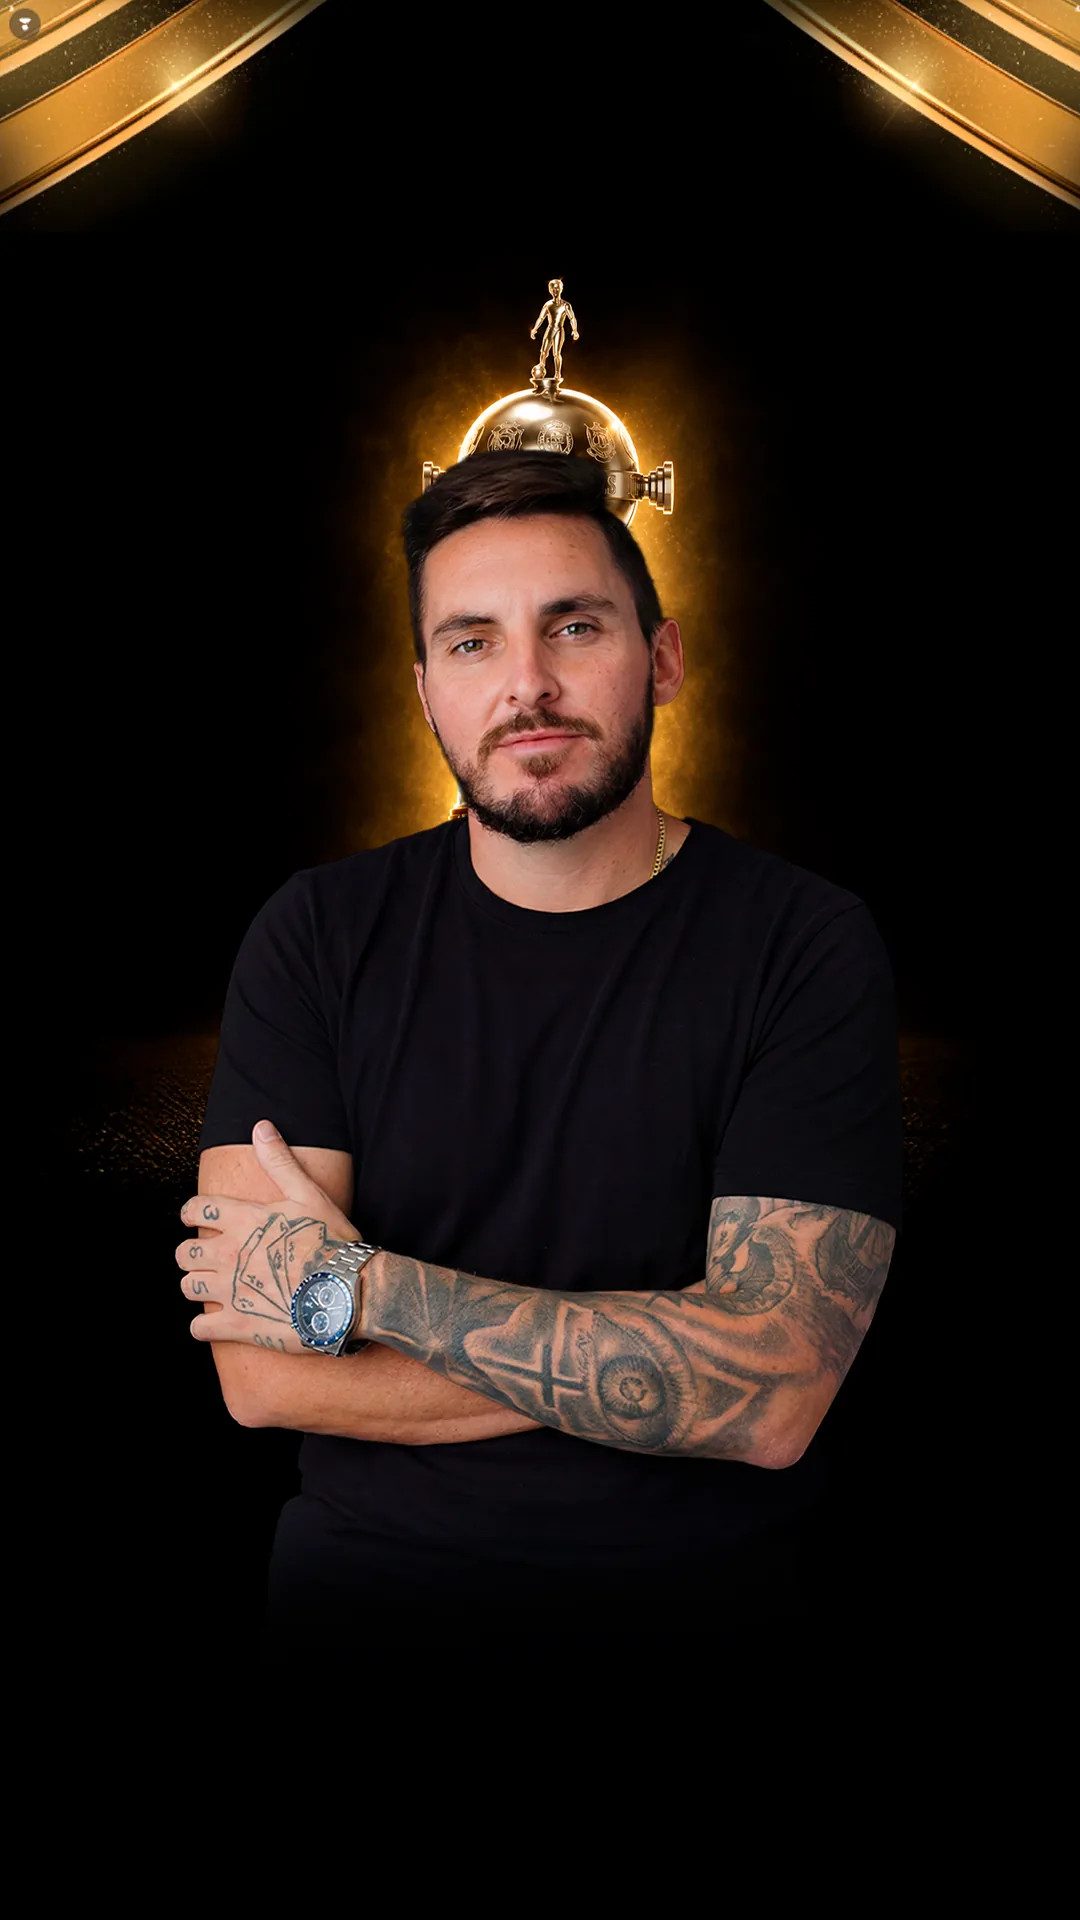
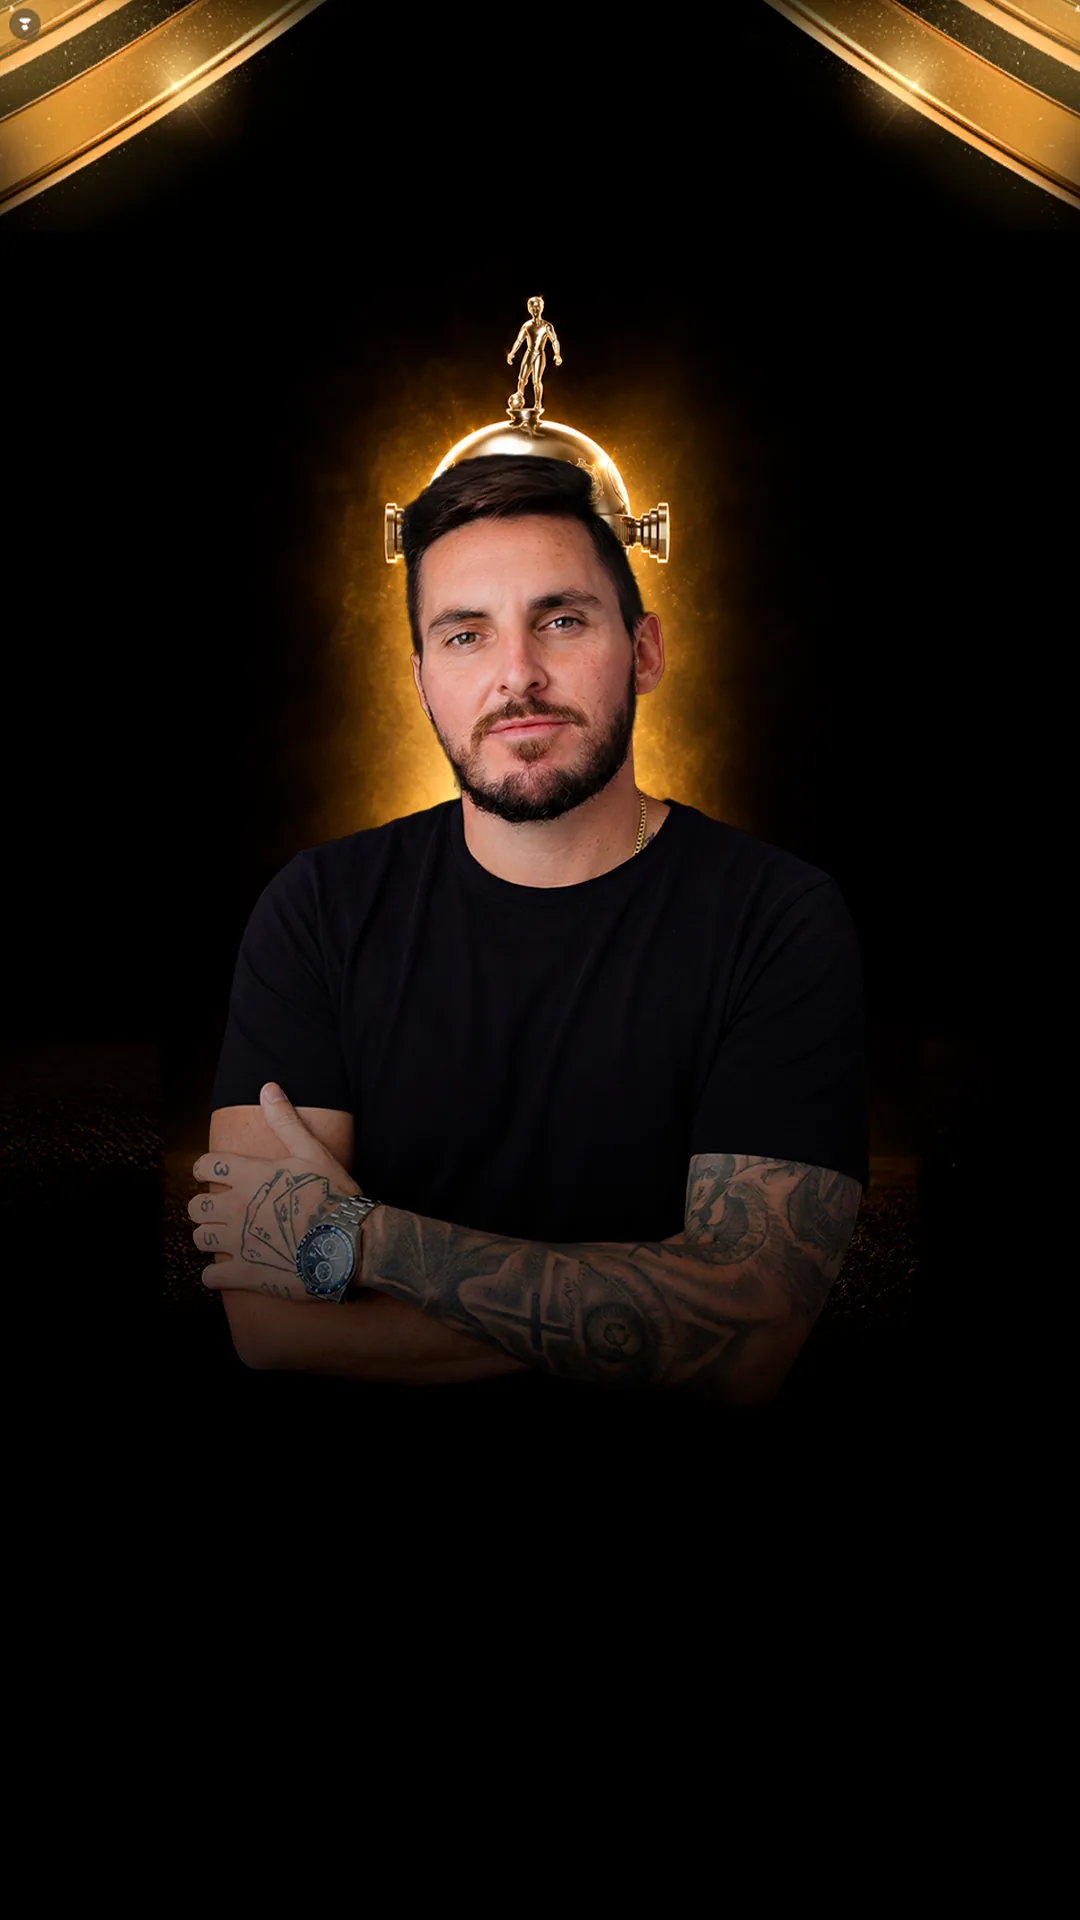
Hero nova: label no topo, headline na base, CTA maior, nome volta pro início

Changed region(s): [[0.1528, 0.5312, 0.825, 0.7812], [0.275, 0.125, 0.6722, 0.5], [0.2444, 0.4375, 0.275, 0.4688]]

diff --git a/app/page.js b/app/page.js
@@ -123,10 +123,16 @@ function Marquee() {
   );
 }
 
-function Header({ right }) {
+function Header({ right, onHome }) {
   return (
     <header className="header">
-      <span className="brand">{config.marca}</span>
+      {onHome ? (
+        <button className="brand brand-link" onClick={onHome} aria-label="Voltar ao início">
+          {config.marca}
+        </button>
+      ) : (
+        <span className="brand">{config.marca}</span>
+      )}
       <span className="header-right">{right}</span>
     </header>
   );
@@ -174,8 +180,10 @@ function Landing({ onStart }) {
       <Header right={rodada.nome} />
 
       <section className={`hero-img${landing.heroImage ? " com-imagem" : ""}`} style={heroStyle}>
-        <div className="wrap hero-copy">
+        <div className="hero-top">
           <span className="label">{landing.label}</span>
+        </div>
+        <div className="wrap hero-copy">
           <h1>
             <Highlight text={landing.titulo} />
           </h1>
@@ -217,7 +225,7 @@ function Landing({ onStart }) {
 // ============= PALPITES =============
 const AVANCO_MS = 320;
 
-function Palpites({ onFinish }) {
+function Palpites({ onFinish, onHome }) {
   const { palpites, rodada } = config;
   const [idx, setIdx] = useState(0);
   const [escolhas, setEscolhas] = useState([]);
@@ -252,7 +260,7 @@ function Palpites({ onFinish }) {
 
   return (
     <div className="page">
-      <Header right={`Palpite ${idx + 1} de ${total}`} />
+      <Header right={`Palpite ${idx + 1} de ${total}`} onHome={onHome} />
       <div className="progress">
         <div className="progress-fill" style={{ width: `${((idx + (bloqueado ? 1 : 0)) / total) * 100}%` }} />
       </div>
@@ -316,7 +324,7 @@ function Palpites({ onFinish }) {
 }
 
 // ============= LOADING =============
-function Loading({ onDone }) {
+function Loading({ onDone, onHome }) {
   const [p, setP] = useState(0);
   const { etapas, label, segundos } = config.loading;
   const dur = Math.max(0.3, segundos) * 1000;
@@ -341,7 +349,7 @@ function Loading({ onDone }) {
 
   return (
     <div className="page">
-      <Header right={label} />
+      <Header right={label} onHome={onHome} />
       <main className="wrap centro">
         <span className="label">{label}</span>
         <h2 className="pergunta">{etapa}…</h2>
@@ -354,7 +362,7 @@ function Loading({ onDone }) {
 }
 
 // ============= BILHETE =============
-function Bilhete({ escolhas, codigo, onRefazer }) {
+function Bilhete({ escolhas, codigo, onRefazer, onHome }) {
   const link = montarLinkWhatsApp(escolhas, codigo);
   const { bilhete, rodada, oferta } = config;
 
@@ -368,7 +376,7 @@ function Bilhete({ escolhas, codigo, onRefazer }) {
 
   return (
     <div className="page">
-      <Header right={bilhete.label} />
+      <Header right={bilhete.label} onHome={onHome} />
 
       <main className="wrap">
         <section className="hero compacto">
@@ -436,8 +444,10 @@ export default function Home() {
     setStep(config.loading.segundos > 0 ? "loading" : "bilhete");
   }
 
-  if (step === "palpites") return <Palpites onFinish={finish} />;
-  if (step === "loading") return <Loading onDone={() => setStep("bilhete")} />;
-  if (step === "bilhete") return <Bilhete escolhas={escolhas} codigo={codigo} onRefazer={() => setStep("palpites")} />;
+  const goHome = () => setStep("landing");
+  if (step === "palpites") return <Palpites onFinish={finish} onHome={goHome} />;
+  if (step === "loading") return <Loading onDone={() => setStep("bilhete")} onHome={goHome} />;
+  if (step === "bilhete")
+    return <Bilhete escolhas={escolhas} codigo={codigo} onRefazer={() => setStep("palpites")} onHome={goHome} />;
   return <Landing onStart={() => setStep("palpites")} />;
 }

diff --git a/app/globals.css b/app/globals.css
@@ -12,7 +12,7 @@
   --font: var(--font-archivo), "Archivo", ui-sans-serif, system-ui, -apple-system, sans-serif;
   --maxw: 520px;
   --pad: 20px;
-  --sticky-h: 118px;
+  --sticky-h: 142px;
 }
 
 * {
@@ -103,6 +103,18 @@ a {
 .brand {
   color: var(--text);
 }
+.brand-link {
+  background: none;
+  border: none;
+  padding: 0;
+  cursor: pointer;
+  font: inherit;
+  letter-spacing: inherit;
+  text-transform: inherit;
+}
+.brand-link:hover {
+  color: var(--gold);
+}
 .header-right {
   color: var(--mut);
 }
@@ -158,26 +170,40 @@ h1 .hl {
   position: relative;
   z-index: 1;
 }
-/* copy sobre a camiseta, entre o queixo (~45%) e os braços (~60%) */
+/* label no topo, abaixo dos raios dourados (~12%) e acima da taça (~15%) */
+.hero-top {
+  position: absolute;
+  z-index: 1;
+  left: 0;
+  right: 0;
+  top: 11%;
+  text-align: center;
+}
+.hero-top .label {
+  margin: 0;
+  text-shadow: 0 1px 10px rgba(0, 0, 0, 0.9);
+}
+/* headline na área preta abaixo dos braços, encostada no CTA fixo */
 .hero-copy {
   position: absolute;
   z-index: 1;
   left: 0;
   right: 0;
-  top: 45.5%;
+  bottom: calc(var(--sticky-h) + 6px);
   text-align: center;
   display: flex;
   flex-direction: column;
   align-items: center;
 }
-.hero-copy .label {
-  margin-bottom: 6px;
-  text-shadow: 0 1px 10px rgba(0, 0, 0, 0.9);
-}
 .hero-copy h1 {
-  font-size: clamp(26px, 7.4vw, 36px);
-  line-height: 1;
+  font-size: clamp(28px, 8vw, 40px);
+  line-height: 0.98;
   text-shadow: 0 2px 22px rgba(0, 0, 0, 0.95), 0 0 2px rgba(0, 0, 0, 0.8);
+}
+/* escurece a base pra headline e o CTA */
+.hero-img::after {
+  height: 40%;
+  background: linear-gradient(180deg, rgba(5, 6, 12, 0), rgba(5, 6, 12, 0.85) 55%, var(--bg));
 }
 .hero-copy .lead {
   font-size: 14.5px;
@@ -358,7 +384,7 @@ h1 .hl {
   right: 0;
   bottom: 0;
   z-index: 10;
-  padding: 12px var(--pad) calc(12px + env(safe-area-inset-bottom));
+  padding: 18px var(--pad) calc(18px + env(safe-area-inset-bottom));
   background: linear-gradient(180deg, rgba(5, 8, 20, 0), var(--bg) 30%);
 }
 .sticky-inner {
@@ -371,13 +397,13 @@ h1 .hl {
   justify-content: center;
   gap: 10px;
   width: 100%;
-  min-height: 56px;
-  padding: 14px 20px;
-  border-radius: 12px;
+  min-height: 66px;
+  padding: 18px 22px;
+  border-radius: 14px;
   border: none;
   background: var(--gold);
   color: #140f02;
-  font-size: 15px;
+  font-size: 17px;
   font-weight: 800;
   letter-spacing: 0.08em;
   text-transform: uppercase;
@@ -392,9 +418,9 @@ h1 .hl {
 }
 .sticky-hint {
   text-align: center;
-  font-size: 11.5px;
+  font-size: 12px;
   color: var(--mut);
-  margin-top: 8px;
+  margin-top: 10px;
 }
 
 /* ---------- palpites ---------- */
